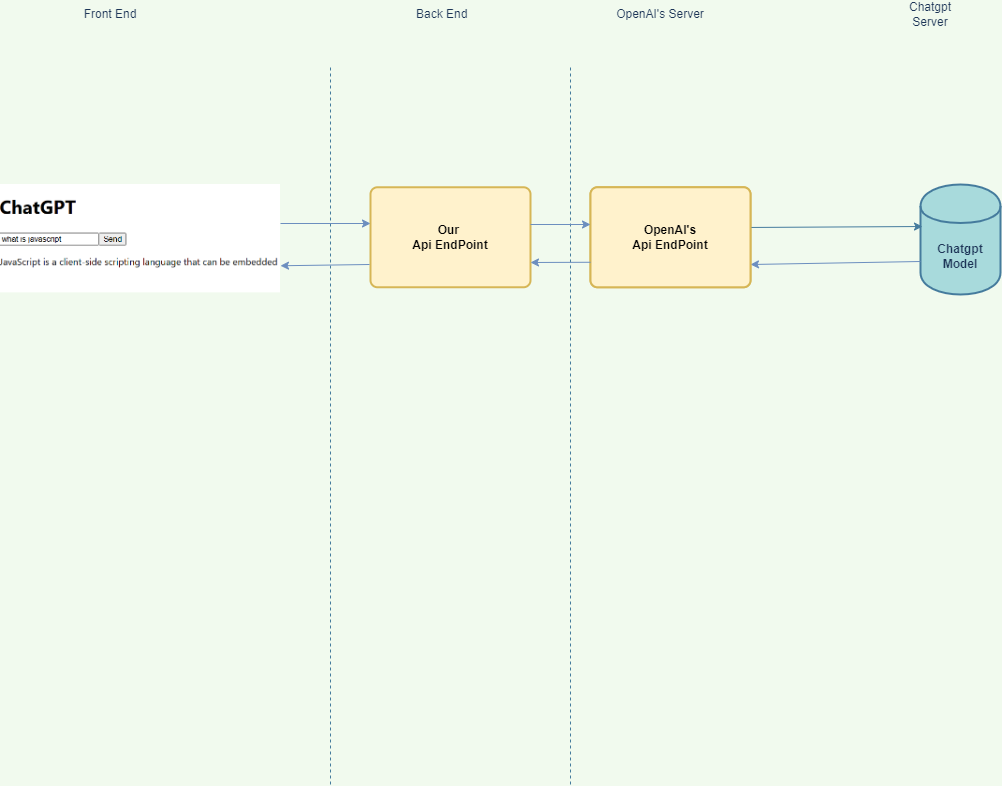
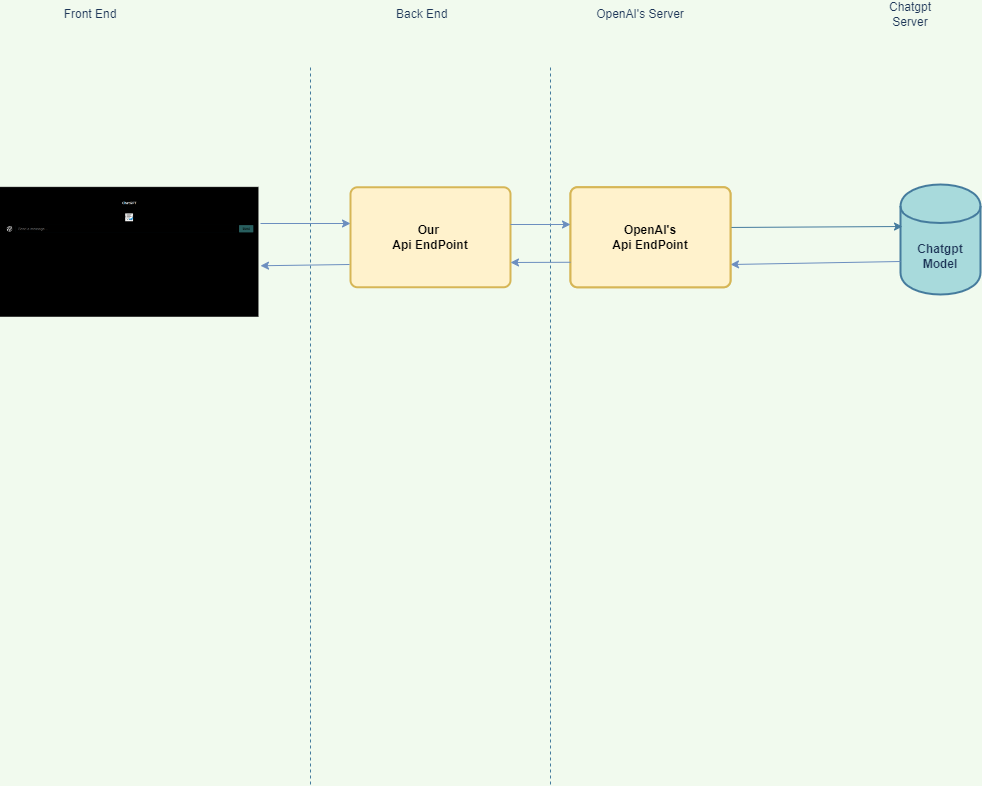
Added css in chatGPT App

diff --git a/ChatGPT_App/Frontend/src/App.css b/ChatGPT_App/Frontend/src/App.css
@@ -1,38 +1,51 @@
-.App {
+body {
   text-align: center;
+  font-size: 30px;
+  padding: 30px;
+  background-color: black;
+  color: whitesmoke;
 }
 
-.App-logo {
-  height: 40vmin;
-  pointer-events: none;
-}
-
-@media (prefers-reduced-motion: no-preference) {
-  .App-logo {
-    animation: App-logo-spin infinite 20s linear;
-  }
-}
-
-.App-header {
-  background-color: #282c34;
-  min-height: 100vh;
+.wrapper form {
   display: flex;
-  flex-direction: column;
   align-items: center;
   justify-content: center;
-  font-size: calc(10px + 2vmin);
-  color: white;
+  gap: 10px;
 }
 
-.App-link {
-  color: #61dafb;
+.app-logo {
+  display: block;
+  margin: 10px auto 20px auto;
+  max-width: 60px;
 }
 
-@keyframes App-logo-spin {
-  from {
-    transform: rotate(0deg);
-  }
-  to {
-    transform: rotate(360deg);
-  }
+.wrapper form img {
+  max-width: 50px;
+}
+
+.wrapper form input {
+  background-color: black;
+  color: wheat;
+  border: 1px solid #15323a;
+  font-size: 20px;
+  flex: 1;
+  border-radius: 4px;
+  padding: 10px 15px;
+}
+
+.wrapper form button {
+  font-size: 18px;
+  border: 1px solid#000;
+  cursor: pointer;
+  color: black;
+  padding: 10px 20px;
+  background-color: rgb(41, 95, 95);
+  border-radius: 4px;
+}
+
+.response-area {
+  font-size: 14px;
+  letter-spacing: 4px;
+  margin: 50px 0 40px 0;
+  opacity: 0.5;
 }

diff --git a/ChatGPT_App/Frontend/src/App.js b/ChatGPT_App/Frontend/src/App.js
@@ -1,6 +1,10 @@
 import axios from "axios";
 import {useState} from 'react'
 import React from "react";
+import AppLogo from './app_logo.png'
+import CGLogo from './chat1_logo.png'
+import './App.css'
+
 
 const App = () => {
 
@@ -18,6 +22,7 @@ const App = () => {
     .then((res) => {
       // Update the response state with the server's response
       setResponse(res.data)
+      setPrompt('')
     })
     .catch((err) => {
       console.error(err)
@@ -27,13 +32,15 @@ const App = () => {
  
   return(
     <>
-     <div>
-      <h1>ChatGPT</h1>
+     <h6>ChatGPT</h6> 
+      <div className="wrapper">
+      <img src={AppLogo} alt="" className="app-logo"/>
       <form className="ui form" onSubmit={handleSubmit}>
+        <img src={CGLogo} alt="" className="cg-logo"/>
         <input type='text' placeholder="Send a message..." value={prompt} onChange={(e) => setPrompt(e.target.value)} />
         <button className="ui button" type="submit">Send</button>
-        <p>{response}</p>
       </form>
+      <p className="response-area">{response}</p>
     </div>
     </>
    
